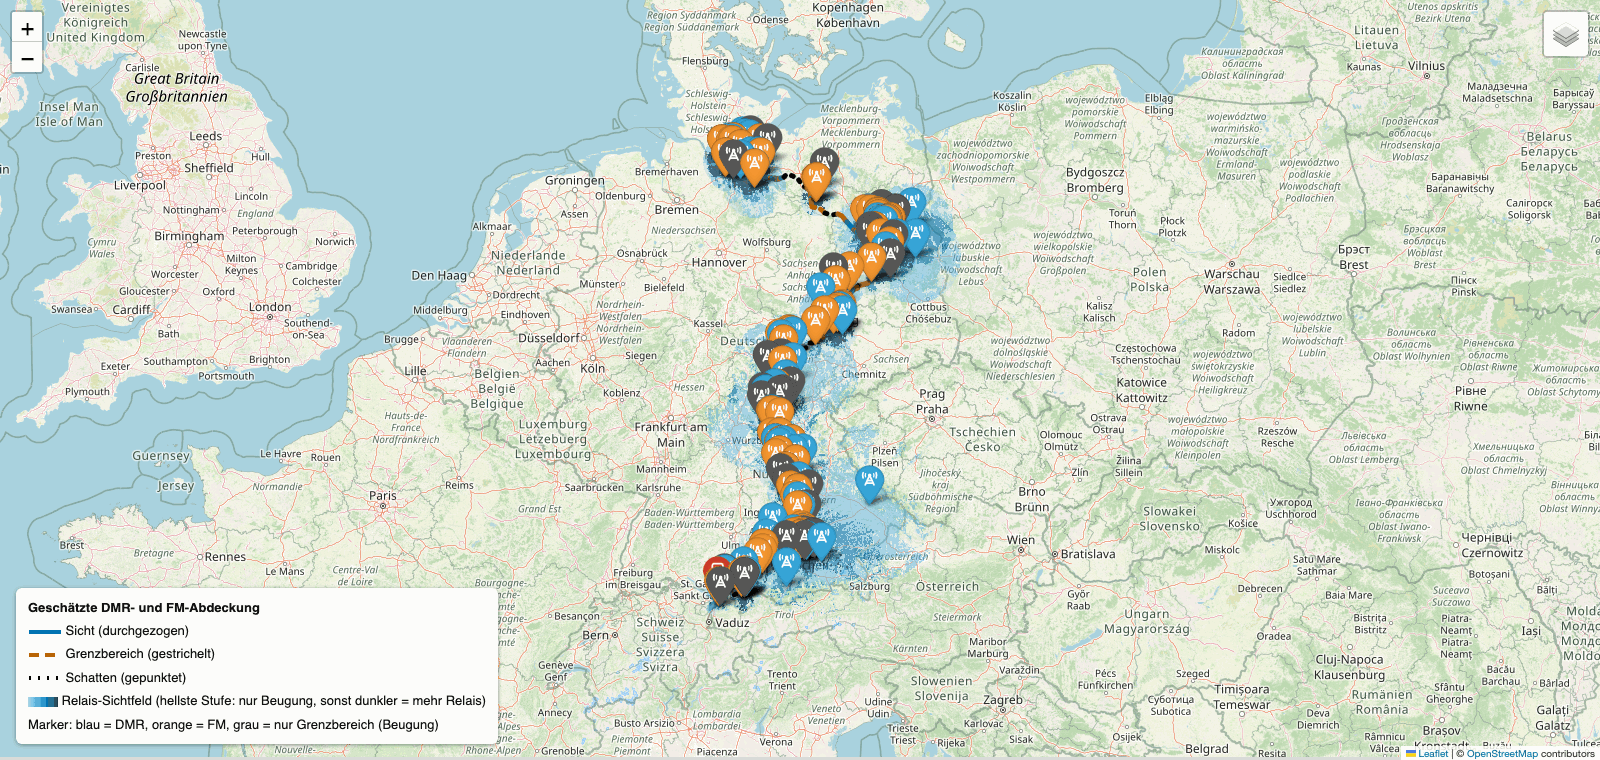
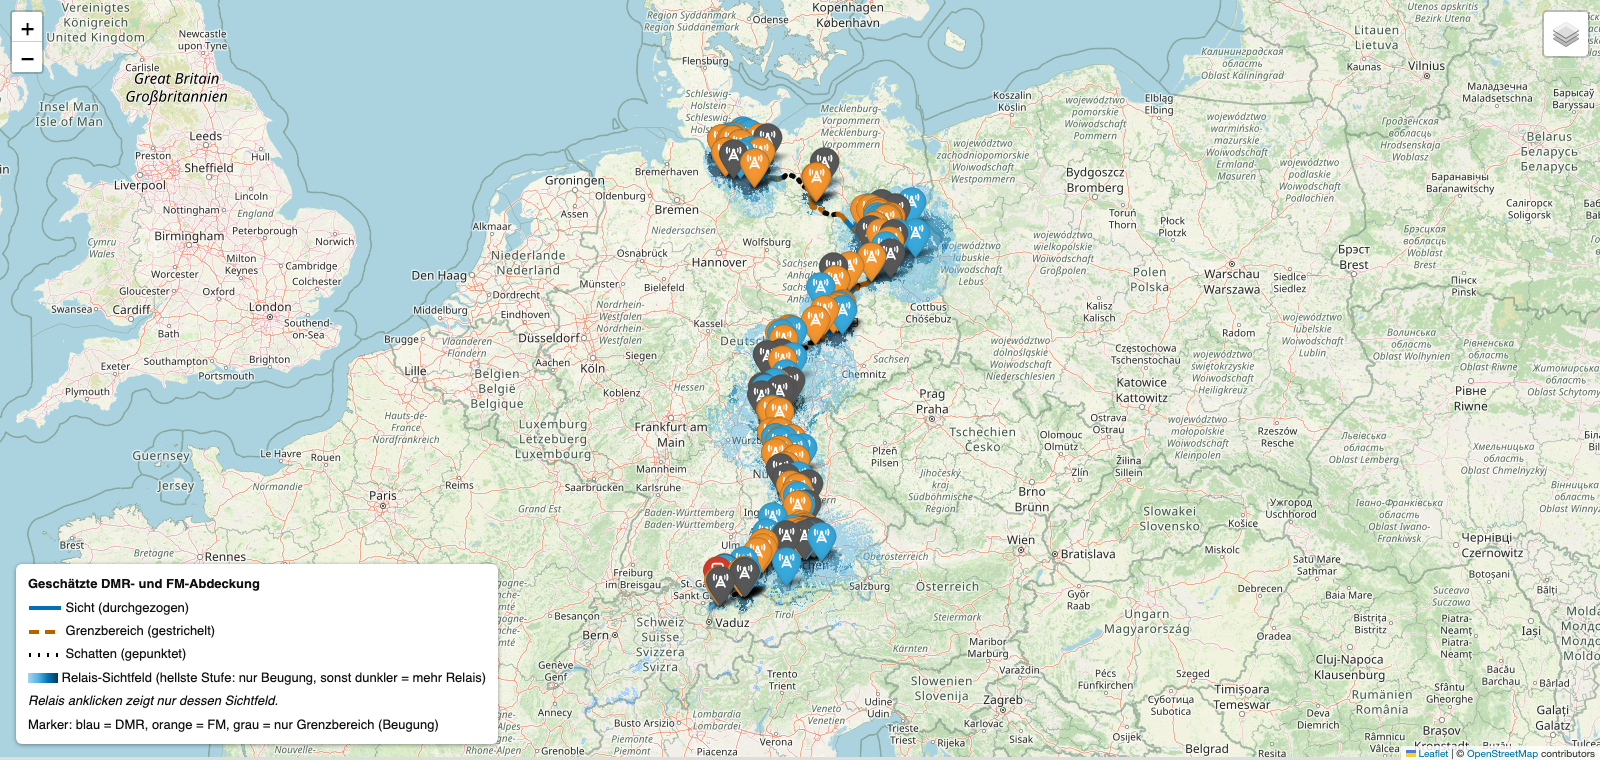
Kartenlegende: max-width in Pixeln statt rem — sie war auf halbe Breite gequetscht
Beim Aufteilen der Legende (0.3.0) bekam sie max-width: 24rem, den Wert
aus stil.css. In der GUI ist die Wurzelschrift 16 px, das sind die
beabsichtigten 384 px. Auf der folium-Seite setzt branca aber
html{font-size:10px} — dieselben 24rem sind dort nur 240 px.

Gemessen an der echten Karte Hamburg->Lindau: statt 482x180 px war der
Kasten 240x297 px, Überschrift und Sichtfeld-Zeile brachen um. Falsch
war nichts, aber es sah deutlich schlechter aus als in 0.2.0 — und so
steckt es in der ausgelieferten 0.3.0.

Jetzt 500 px absolut: die Summen-Legende bleibt einzeilig (sie misst
482 px), nur der längere Hinweis der Einzelansicht bricht um. Grund im
Code vermerkt, damit niemand wieder rem daraus macht.

docs/beispielkarte.png aus einem echten Lauf erneuert (Hamburg Hbf ->
Lindau-Insel, 1151 km, 191 Relais, 55/32/13 %) — zeigt die korrigierte
Legende samt der neuen Zeile »Relais anklicken zeigt nur dessen
Sichtfeld«.

Changed region(s): [[0.0, 0.7263, 0.3125, 0.9382], [0.5, 0.5447, 0.5938, 0.7566], [0.5312, 0.2724, 0.5625, 0.3026]]

diff --git a/bmtools/routelib/mapview.py b/bmtools/routelib/mapview.py
@@ -181,9 +181,15 @@ def _legend_inhalt(modus_label: str, marker_note: str,
 
 def _legend(modus_label: str, marker_note: str,
             sichtfelder: bool = False) -> str:
+    # max-width in Pixeln, NICHT in rem: branca setzt auf der
+    # folium-Seite html{font-size:10px}, ein aus stil.css übernommenes
+    # 24rem wären hier 240 statt 384 px und quetschten die Legende auf
+    # halbe Breite (Befund 2026-07-26 beim Erneuern der README-Bilder).
+    # 500 px lässt die Summen-Legende einzeilig (sie misst 482 px) und
+    # bricht nur den längeren Hinweis der Einzelansicht um.
     return f"""
 <div id="{LEGENDE_ID}" style="position:fixed; bottom:16px; left:16px;
-     z-index:9999; max-width:24rem;
+     z-index:9999; max-width:500px;
      background:#fff; color:#111; padding:8px 12px; border-radius:6px;
      box-shadow:0 1px 4px #0006; font:13px/1.8 sans-serif;">
 {_legend_inhalt(modus_label, marker_note, sichtfelder)}
